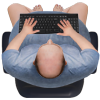
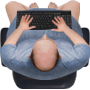
ny player sprite og rotation af player

diff --git a/GameObjects/Player1.cs b/GameObjects/Player1.cs
@@ -71,7 +71,8 @@ namespace SystemShutdown.GameObjects
 
         public void Move(Vector2 velocity)
         {
-        
+            currentDir = velocity;
+
             if (velocity != Vector2.Zero)
             {
                 velocity.Normalize();
@@ -122,9 +123,9 @@ namespace SystemShutdown.GameObjects
         {
             GameObject.Tag = "Player";
 
-           //GameObject.Transform.Position = new Vector2(GameWorld.graphics.GraphicsDevice.Viewport.Width / 2, GameWorld.graphics.GraphicsDevice.Viewport.Height);
+            //GameObject.Transform.Position = new Vector2(GameWorld.graphics.GraphicsDevice.Viewport.Width / 2, GameWorld.graphics.GraphicsDevice.Viewport.Height);
             ////this.position = GameObject.Transform.Position;
-          // // spriteRenderer = (SpriteRenderer)GameObject.GetComponent("SpriteRenderer");
+            spriteRenderer = (SpriteRenderer)GameObject.GetComponent("SpriteRenderer");
         }
 
         //public void LoadContent(ContentManager content)

diff --git a/BuildPattern/PlayerBuilder.cs b/BuildPattern/PlayerBuilder.cs
@@ -39,8 +39,8 @@ namespace SystemShutdown.BuildPattern
 
             go.AddComponent(sr);
             sr.SetSprite("player");
-            //sr.Origin = new Vector2(sr.Sprite.Width / 2, (sr.Sprite.Height) - 10);
-            sr.Origin = new Vector2(go.Transform.Position.X, go.Transform.Position.Y);
+            sr.Origin = new Vector2(sr.Sprite.Width / 2, (sr.Sprite.Height) / 2);
+            //sr.Origin = new Vector2(go.Transform.Position.X, go.Transform.Position.Y);
 
             player = new Player1();
            // sr.rectangle = new Rectangle((int)sr.Origin.X, (int)sr.Origin.Y, sr.Sprite.Width - 10, sr.Sprite.Height - 10);

diff --git a/Components/SpriteRenderer.cs b/Components/SpriteRenderer.cs
@@ -36,7 +36,7 @@ namespace SystemShutdown.Components
 
         public override void Draw(SpriteBatch spriteBatch)
         {
-            spriteBatch.Draw(Sprite, GameObject.Transform.Position, null, Color.White, 0, Origin, 1, SpriteEffects.None, 0);
+            spriteBatch.Draw(Sprite, GameObject.Transform.Position, null, Color.White, Rotation, Origin, 1, SpriteEffects.None, 0);
             //spriteBatch.Draw(Sprite, GameObject.Transform.Position, rectangle, Color.White, 0, Origin, 1, SpriteEffects.None, 0);
             
         }

diff --git a/Components/Collider.cs b/Components/Collider.cs
@@ -56,7 +56,7 @@ namespace SystemShutdown.Components
 
         public override void Draw(SpriteBatch spriteBatch)
         {
-            spriteBatch.Draw(texture, CollisionBox, null, Color.Red, 0, origin, SpriteEffects.None, 0);
+            spriteBatch.Draw(texture, CollisionBox, null, Color.Red, 0, Vector2.Zero, SpriteEffects.None, 0);
         }
 
         public override string ToString()
